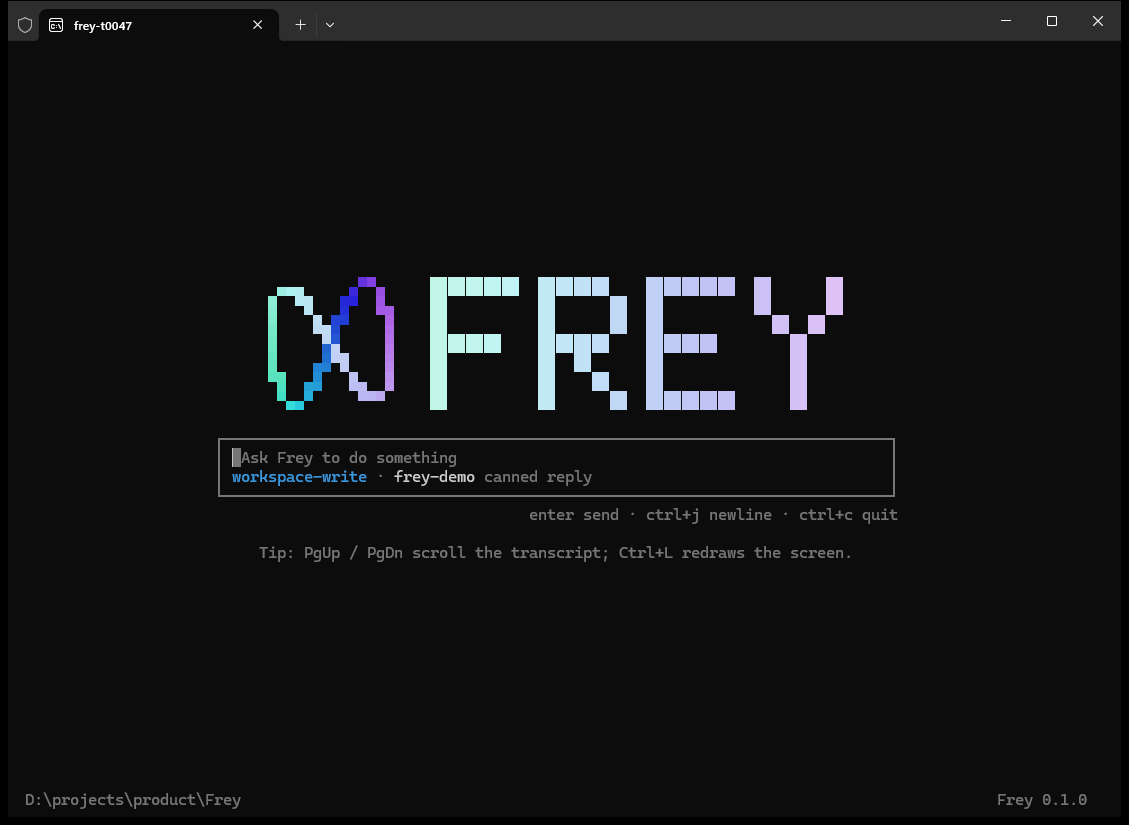
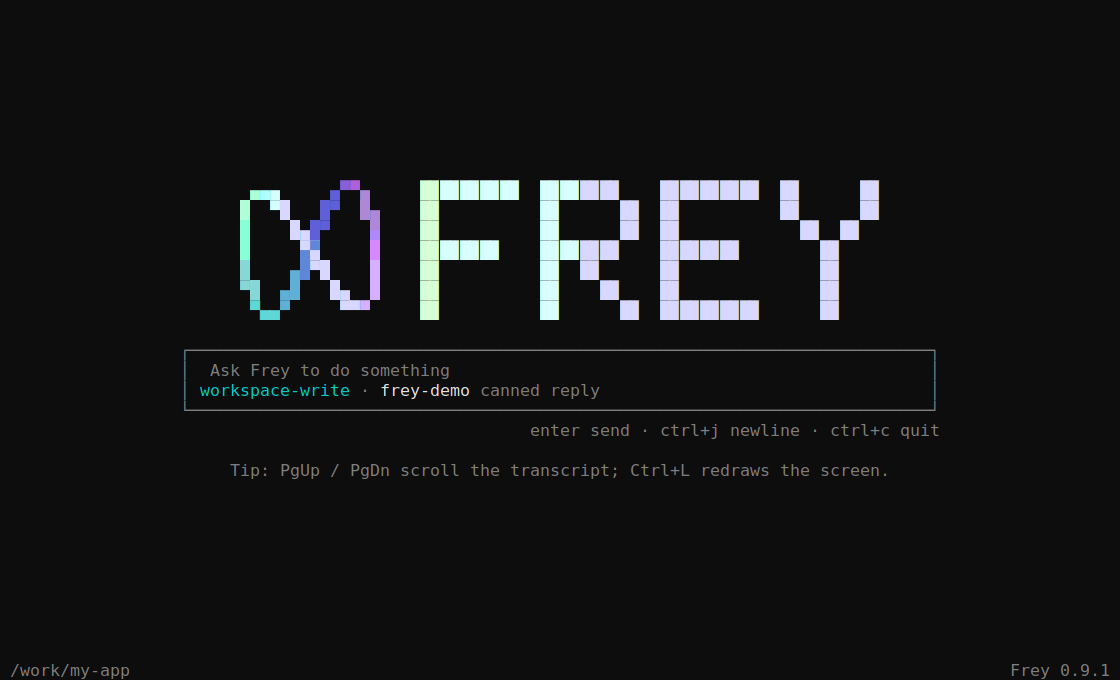
同步私有仓骨架：README（glibc 2.28 下限、包内四样含 THIRD-PARTY-NOTICES）、干净 Demo 截图、签名公钥 frey.pub 与 keys 说明
Claude-Session: https://claude.ai/code/session_012yvEfj3CLpWUodSLS3T7ne

diff --git a/README.md b/README.md
@@ -52,7 +52,7 @@ Frey 把模型、工具、会话状态、权限策略、上下文压缩串成一
 | **会话** | 只追加的 JSONL；`--resume latest` 接着聊；被强杀后续接会自动补上中断的工具结果 |
 | **插话** | 回复进行中直接打字：排队、或在下一个安全边界插入，不丢任务 |
 | **密钥不外泄** | key 只从环境变量读；`run_shell` 与 git 子进程看不到任何名字像密钥的变量 |
-| **三平台原生** | Windows 10 1809+ / 11、Linux x86_64 / aarch64、macOS 13+（Apple Silicon 与 Intel）；单文件、无依赖，HTTPS 用 rustls |
+| **三平台原生** | Windows 10 1809+ / 11、Linux x86_64 / aarch64（glibc 2.28 及以上：RHEL / Rocky 8、Debian 10、Ubuntu 20.04 起）、macOS 13+（Apple Silicon 与 Intel）；单文件、无依赖，HTTPS 用 rustls |
 
 ## 下载
 
@@ -66,7 +66,7 @@ Frey 把模型、工具、会话状态、权限策略、上下文压缩串成一
 | macOS Apple Silicon | `frey-<版本>-macos-aarch64.tar.gz` |
 | macOS Intel | `frey-<版本>-macos-x86_64.tar.gz` |
 
-每个包里只有三样：`frey`（Windows 是 `frey.exe`）、`VERSION`、`EULA.md`。
+每个包里只有四样：`frey`（Windows 是 `frey.exe`）、`VERSION`、`EULA.md`、`THIRD-PARTY-NOTICES`（所用开源组件的许可证与版权声明）。
 机器可读的「最新版是哪个、哪天发的、每个平台的下载地址和校验值」在 [`manifests/frey.json`](manifests/frey.json)。
 
 ## 安装
@@ -89,6 +89,8 @@ frey --version
 > 推荐用 Windows Terminal；旧的 conhost 控制台会自动降到基本模式。
 
 ### Linux
+
+要求 glibc 2.28 及以上（RHEL / Rocky / AlmaLinux 8、Debian 10、Ubuntu 20.04 及以后；`ldd --version` 看版本）。
 
 ```bash
 tar -xzf frey-*-linux-x86_64.tar.gz

diff --git a/keys/README.md b/keys/README.md
@@ -1,3 +1,9 @@
 # keys/
 
-minisign 公钥。`frey.pub` 由开发席生成签名钥时放进来，同一把编进 `frey` 二进制；换钥时新旧两把并存一版。
+minisign 公钥。`frey.pub` 由需求方在私有仓跑 `ops/scripts/release-keygen.sh`（Windows `release-keygen.bat`）时生成放进来：私钥与口令当场写进私有仓的 Secret，不落盘。同一把公钥编进 `frey` 二进制（`frey update` 核签名用）；换钥时新旧两把并存一版。
+
+核一个下载的包：
+
+```
+minisign -Vm frey-<版本>-<平台>.tar.gz -p frey.pub
+```
